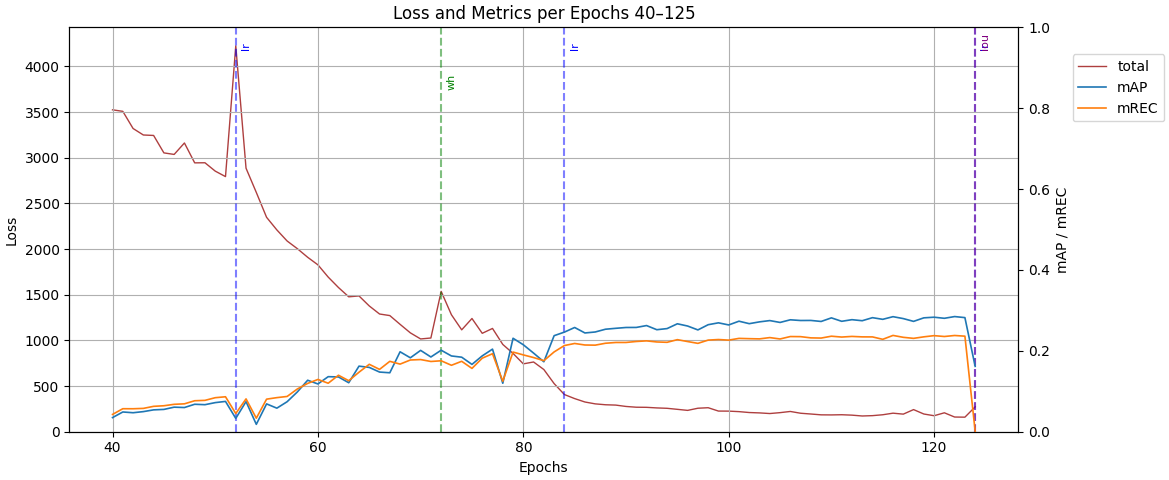
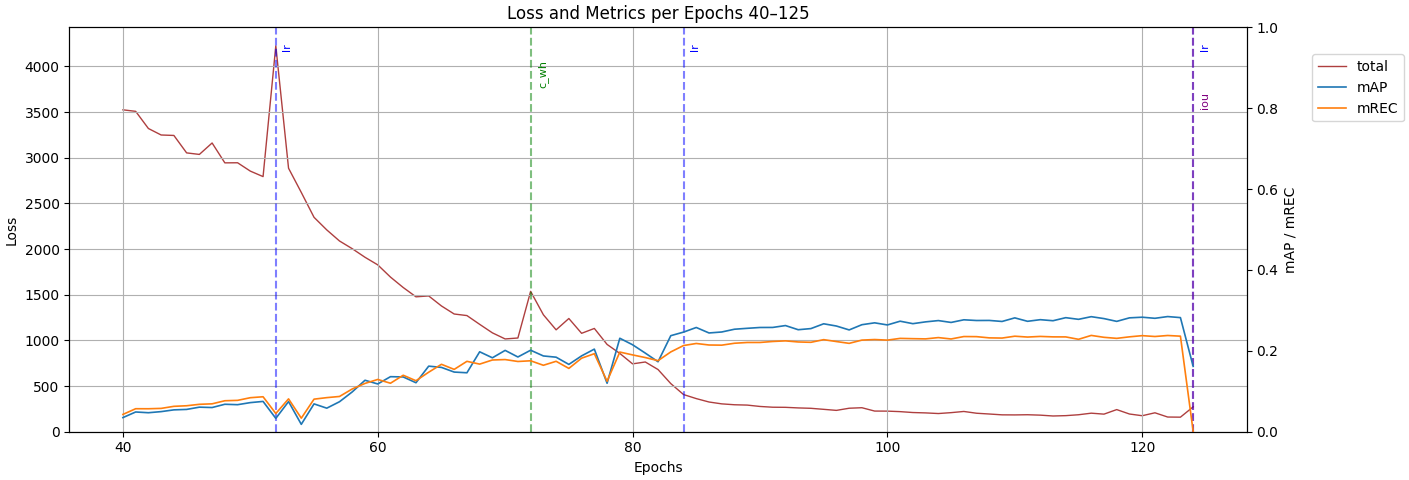
Edit training plots.

diff --git a/util.py b/util.py
@@ -473,76 +473,75 @@ def render_demo(image, pred, obj_thresh=0.5,
     return crop_img
 
 
-
 def plotTraining(start, end, name, total, save, losses, labels, records, epochs):
-   filepath = os.path.join(os.getcwd(), "presentation", "training_plots", f"{name}_{start}_{end}")
-   # guard against out-of-range
-   end = min(end, len(records))
+    filepath = os.path.join(os.getcwd(), "presentation", "training_plots", f"{name}_{start}_{end}")
+    end = min(end, len(records))
 
-   # detect parameter changes
-   lr_change  = records[records["c_lr"].diff()     != 0].index
-   wh_change  = records[records["c_wh"].diff()     != 0].index
-   iou_change = records[records["iou_obj"].diff()  != 0].index
+    # --- detect ANY learn_config changes generically ---
+    param_specs = [
+        ("c_lr",    "lr",    "blue",   0.96),
+        ("c_xy",    "c_xy",  "black",  0.94),
+        ("c_wh",    "c_wh",  "green",  0.92),
+        ("c_obj",   "c_obj", "orange", 0.90),
+        ("c_noobj", "c_no",  "red",    0.88),
+        ("c_cls",   "c_cls", "brown",  0.86),
+        ("iou_obj", "iou",   "purple", 0.84),
+    ]
+    change_idxs = []
+    for col, tag, color, yfac in param_specs:
+        if col in records.columns:
+            idxs = records[records[col].diff().fillna(0) != 0].index
+            idxs = idxs[(idxs >= start) & (idxs < end)]
+            if len(idxs):
+                change_idxs.append((idxs, tag, color, yfac))
 
-   # restrict to visible window
-   lr_change  = lr_change[(lr_change  >= start) & (lr_change  < end)]
-   wh_change  = wh_change[(wh_change  >= start) & (wh_change  < end)]
-   iou_change = iou_change[(iou_change >= start) & (iou_change  < end)]
+    fig, ax1 = plt.subplots(figsize=(18, 5))
 
-   fig, ax1 = plt.subplots(figsize=(15, 5))
+    # left axis: losses
+    for loss, label in zip(losses, labels):
+        if not total:
+            if label not in ["mAP", "mREC", "total"]:
+                ax1.plot(epochs[start:end], loss[start:end], label=label, alpha=0.9, linewidth=1.0, zorder=1)
+        else:
+            if label == "total":
+                ax1.plot(epochs[start:end], loss[start:end], label=label, alpha=0.9, linewidth=1.0, zorder=1, color="brown")
 
-   # left axis: losses
-   # for loss, label in zip(losses, labels):
-   for loss, label in zip(losses, labels):
-      if not total:
-         if label not in ["mAP", "mREC", "total"]:
-            ax1.plot(epochs[start:end], loss[start:end], label=label, alpha=0.9, linewidth=1.0, zorder=1)
-      else:
-         if label == "total":
-            ax1.plot(epochs[start:end], loss[start:end], label=label, alpha=0.9, linewidth=1.0, zorder=1, color="brown")
-         
+    ax1.set_xlabel("Epochs")
+    ax1.set_ylabel("Loss")
+    ax1.grid(True)
 
+    # vertical markers
+    def add_markers(ax, idxs, tag, color, yfac=0.95):
+        ymax = ax.get_ylim()[1]
+        for idx in idxs:
+            ax.axvline(x=idx, color=color, linestyle='--', alpha=0.5)
+            ax.text(idx + 0.5, ymax * yfac, tag, color=color, rotation=90, fontsize=8, va="top")
 
-   ax1.set_xlabel("Epochs")
-   ax1.set_ylabel("Loss")
-   ax1.grid(True)
+    for idxs, tag, color, yfac in change_idxs:
+        add_markers(ax1, idxs, tag, color, yfac)
 
-   # vertical markers
-   def add_markers(ax, idxs, tag, color, yfac=0.95):
-      for idx in idxs:
-         ax.axvline(x=idx, color=color, linestyle='--', alpha=0.5)
-         ax.text(idx + 0.5, ax.get_ylim()[1] * yfac, tag,
-                  color=color, rotation=90, fontsize=8)
+    # right axis: metrics
+    ax2 = ax1.twinx()
+    for loss, label in zip(losses, labels):
+        if label in ["mAP", "mREC"]:
+            ax2.plot(
+                epochs[start:end], loss[start:end],
+                label=label, linewidth=1.2, markersize=3.5,
+                markevery=max(1, (end-start)//15), zorder=3
+            )
 
-   add_markers(ax1, lr_change,  'lr',  'blue',   0.95)
-   add_markers(ax1, iou_change, 'iou', 'purple', 0.95)
-   add_markers(ax1, wh_change,  'wh',  'green',  0.85)
+    ax2.set_ylabel("mAP / mREC")
+    ax2.set_ylim(0, 1.0)
+    ax1.set_ylim(bottom=0)
+    ax2.set_ylim(bottom=0)
 
-   # right axis: metrics
-   ax2 = ax1.twinx()
-   for loss, label in zip(losses, labels):
-      if label in ["mAP", "mREC"]:
-         ax2.plot(
-               epochs[start:end], loss[start:end],
-               label=label, linewidth=1.2, markersize=3.5,
-               markevery=max(1, (end-start)//15), zorder=3
-         )
+    # combined legend
+    lines, labels1 = ax1.get_legend_handles_labels()
+    lines2, labels2 = ax2.get_legend_handles_labels()
+    ax1.legend(lines + lines2, labels1 + labels2, loc="center left", bbox_to_anchor=(1.05, 0.85))
 
-   ax2.set_ylabel("mAP / mREC")
-   ax2.set_ylim(0, 1.0)
-   ax1.set_ylim(bottom=0)
-   ax2.set_ylim(bottom=0)
-   
-
-   # combine legends
-   lines, labels1 = ax1.get_legend_handles_labels()
-   lines2, labels2 = ax2.get_legend_handles_labels()
-   ax1.legend(lines + lines2, labels1 + labels2,
-           loc="center left", bbox_to_anchor=(1.05, 0.85))
-
-   plt.title(f"Loss and Metrics per Epochs {start}–{end}")
-   plt.tight_layout(rect=[0, 0, 0.8, 1])  # keep 90% for plot, 10% for legend
-   if save:
-      plt.savefig(filepath, bbox_inches="tight", pad_inches=0.05)
-   
-   plt.show()
+    plt.title(f"Loss and Metrics per Epochs {start}–{end}")
+    plt.tight_layout(rect=[0, 0, 0.8, 1])
+    if save:
+        plt.savefig(filepath, bbox_inches="tight", pad_inches=0.05)
+    plt.show()
